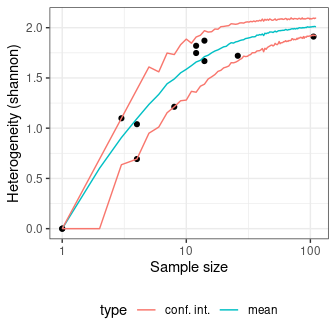
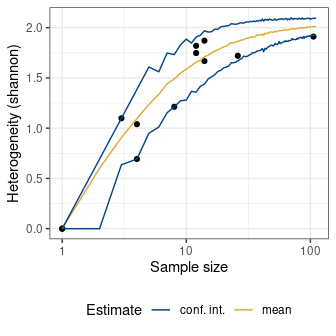
Fix colour scale

diff --git a/README.md b/README.md
@@ -94,11 +94,11 @@ remotes::install_github("tesselle/tabula")
 ## Usage
 
 ``` r
+## Install extra packages (if needed)
+# install.packages("khroma")
+
 ## Load packages
 library(folio) # Datasets
-library(khroma) # Color scales
-library(ggplot2)
-
 library(tabula)
 ```
 
@@ -134,14 +134,15 @@ plot_ford(mississippi)
 
 <img src="man/figures/README-ford-1.png" style="display: block; margin: auto;" />
 
-Spot matrix[^1] allows direct examination of data:
+Spot matrix allows direct examination of data:
 
 ``` r
 ## Plot co-occurrence of types
 ## (i.e. how many times (percent) each pairs of taxa occur together 
 ## in at least one sample.)
-plot_spot(mississippi, freq = TRUE) +
-  ggplot2::labs(size = "Co-occurrence", colour = "Co-occurrence") +
+mississippi |> 
+  occurrence() |> 
+  plot_spot() +
   khroma::scale_colour_YlOrBr()
 ```
 
@@ -225,6 +226,3 @@ Chronology*. Technical Manual 1. Washington, DC: Pan American Union.
 </div>
 
 </div>
-
-[^1]: Adapted from Dan Gopstein’s original
-    [idea](https://dgopstein.github.io/articles/spot-matrix/).
